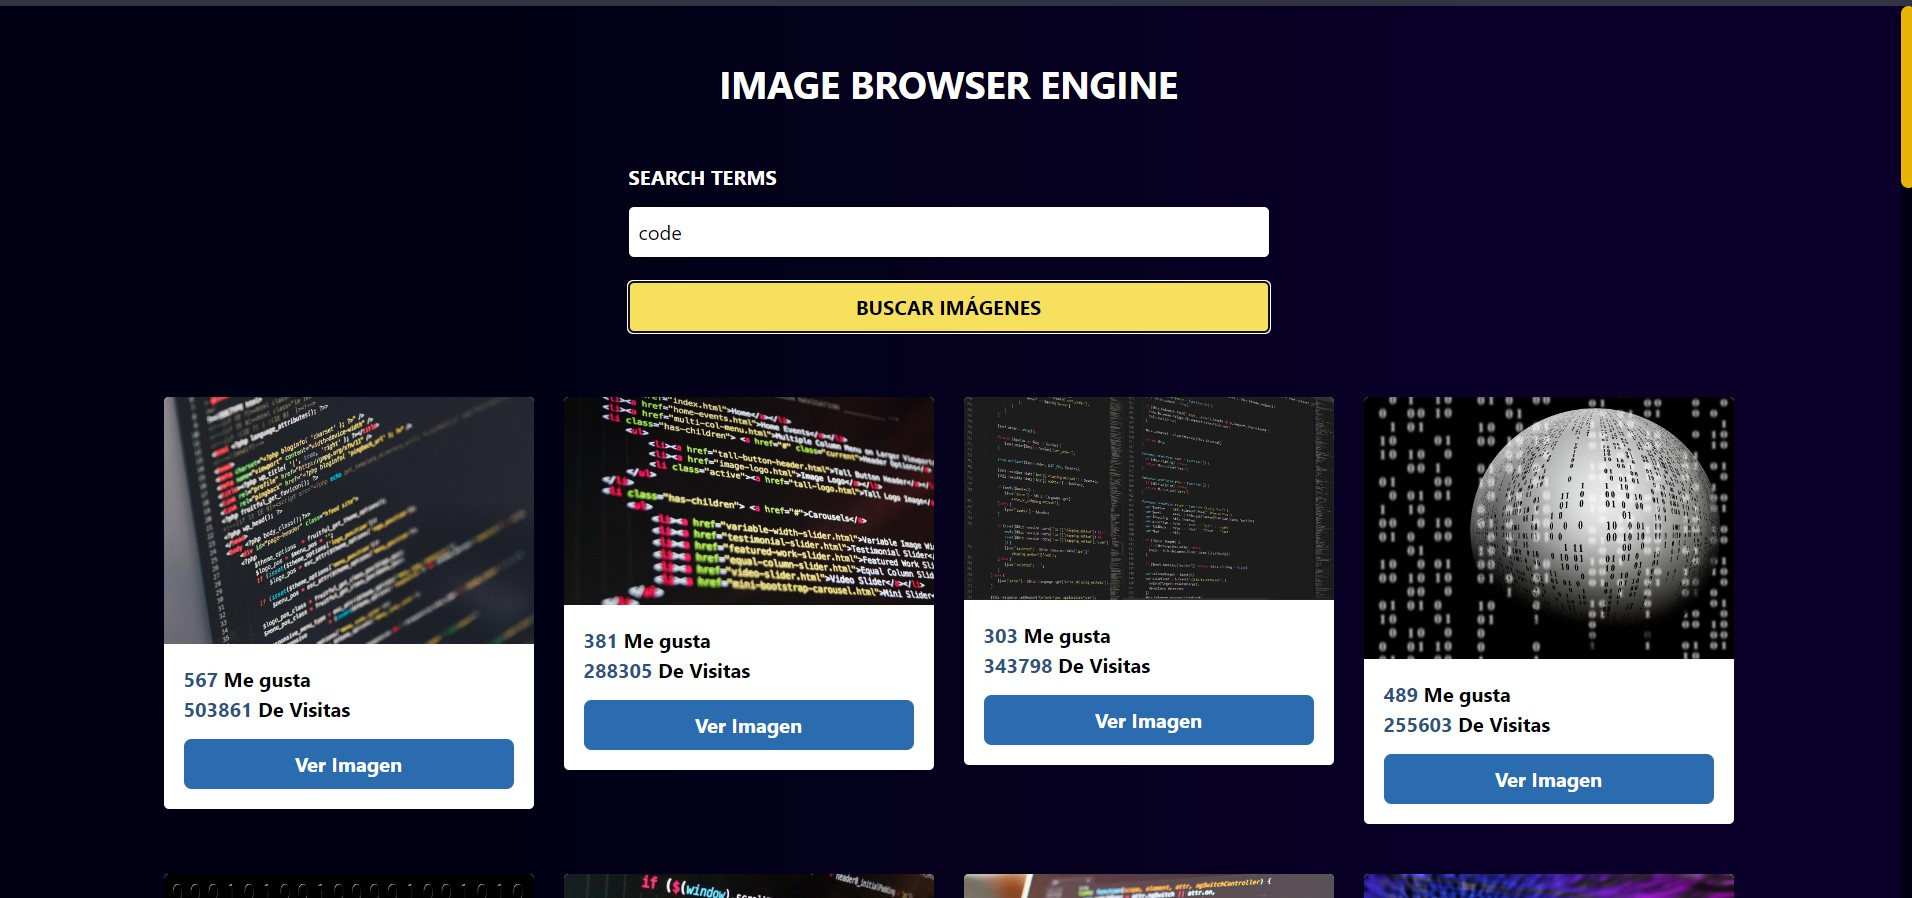
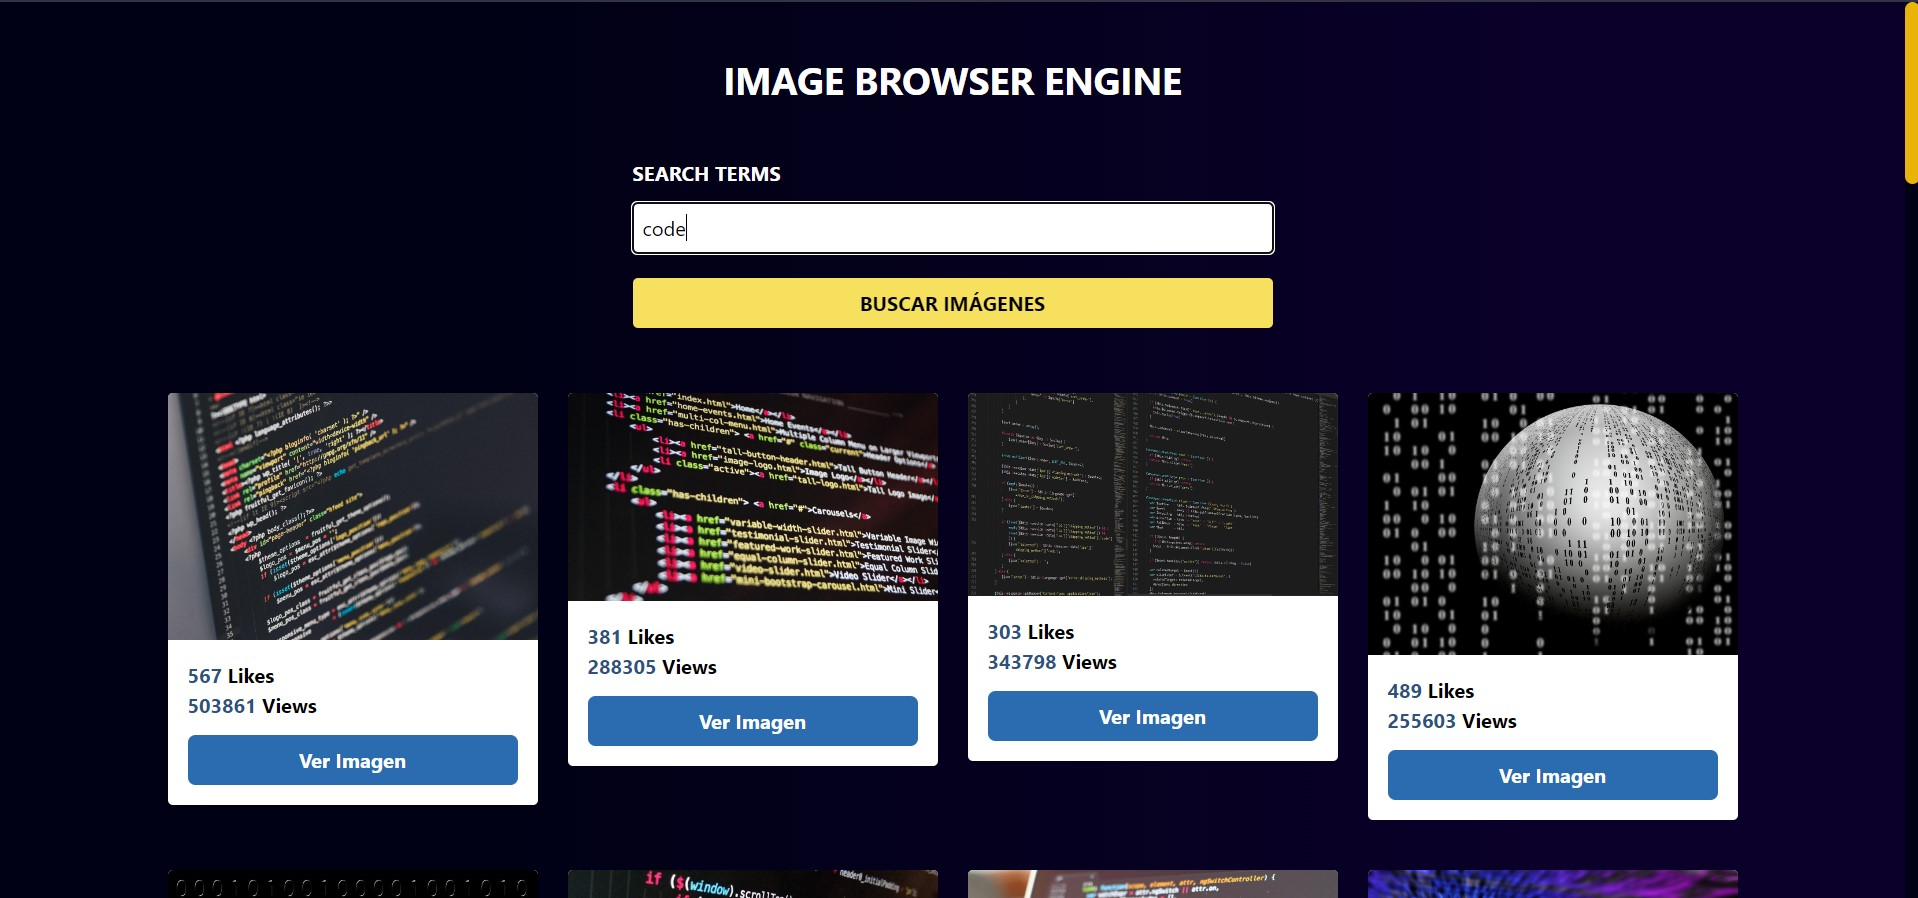
Pixabay Api images browser

diff --git a/js/app.js b/js/app.js
@@ -72,8 +72,8 @@ const mostrarImagenes = imagenes => {
             <img class="w-full" src="${largeImageURL}" alt="image pixabax" loading="lazy">
 
             <div class="p-4"> 
-              <p class="font-bold"><span class="text-blue-800">${likes} </span>Me gusta</p>
-              <p class="font-bold"><span class="text-blue-800">${views} </span>De Visitas</p>
+              <p class="font-bold"><span class="text-blue-800">${likes} </span>Likes</p>
+              <p class="font-bold"><span class="text-blue-800">${views} </span>Views</p>
 
               <a href="${largeImageURL}" target="_blank" rel="noopener noreferrer" 
               class="block w-full bg-blue-700 text-white mt-3 hover:bg-blue-500 py-2 rounded-md  font-bold text-center">Ver Imagen</a>
